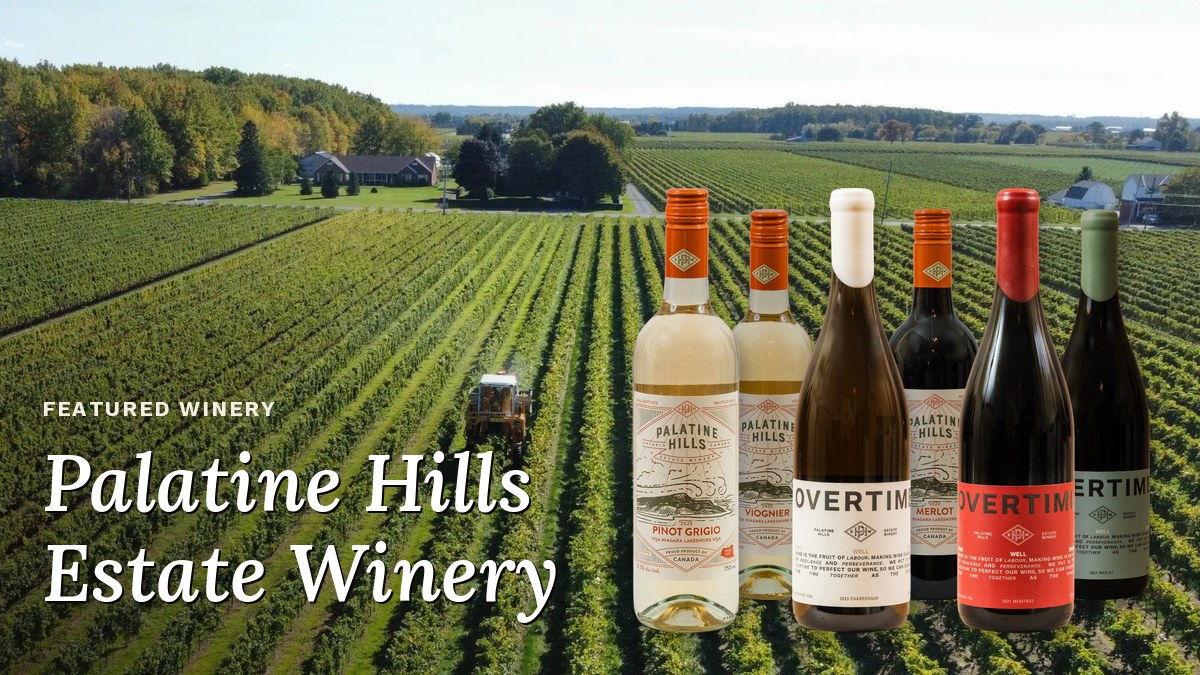
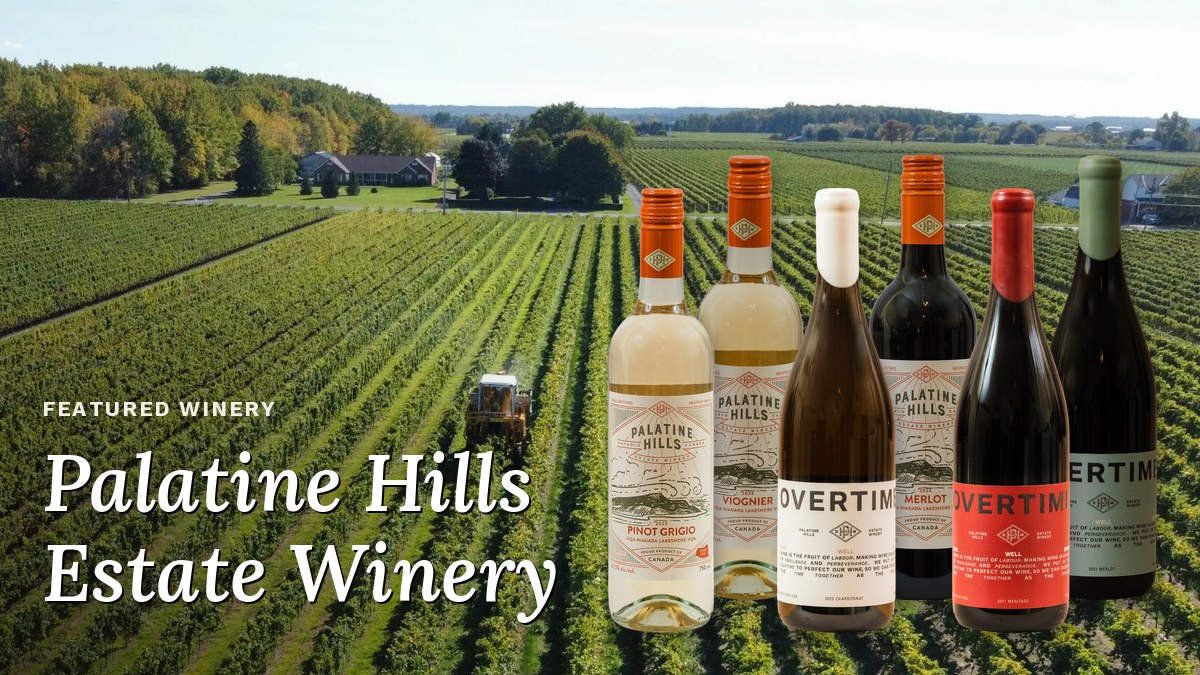
composite_hero cluster: back row same size as front row
Claude-Session: https://claude.ai/code/session_013ofgVCTqpQ4DGdaq1KbZcs

Changed region(s): [[0.4933, 0.2178, 0.9867, 0.9333], [0.8942, 0.2178, 0.9558, 0.3422]]

diff --git a/scripts/composite_hero.py b/scripts/composite_hero.py
@@ -306,7 +306,7 @@ def place_cluster(canvas: Image.Image, bottles: list[Image.Image]):
     n = len(bottles)
     front_n = min(n, 3)  # three bottles always stand in front; only a fourth and beyond go behind
     front_h = int(CANVAS_H * 0.66)  # one bottle size for every pack, so the heroes read as a set
-    back_h = int(front_h * 0.88)
+    back_h = front_h  # same size front and back; depth comes from the raised, slightly darker back row
     if n <= 3:
         slots = [("front", i, i) for i in range(n)]
     else:
